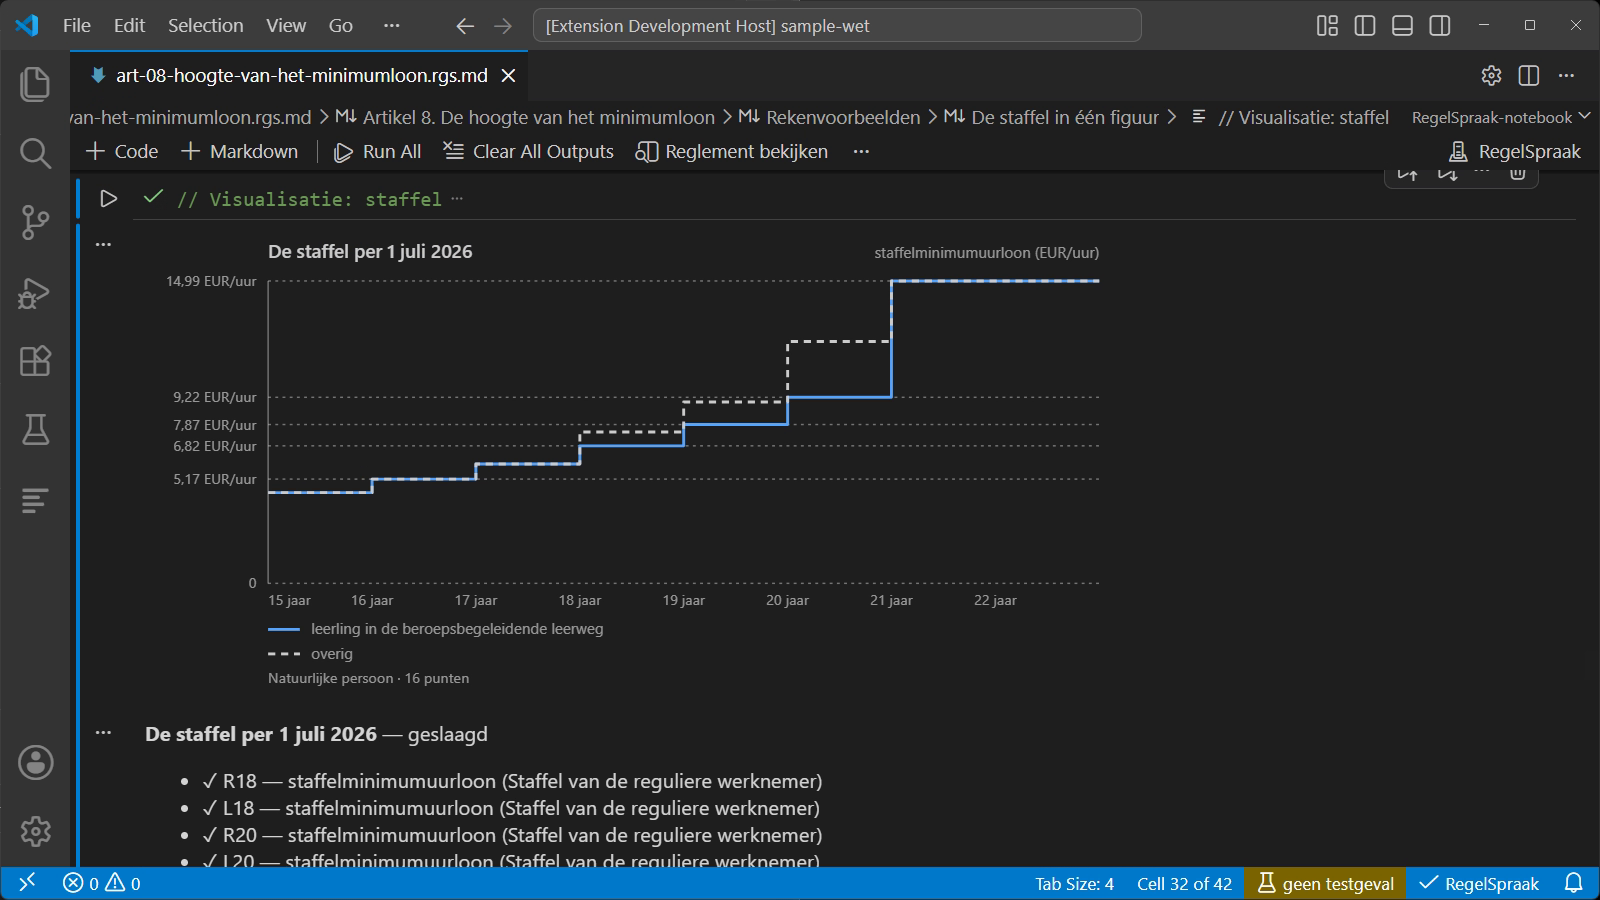
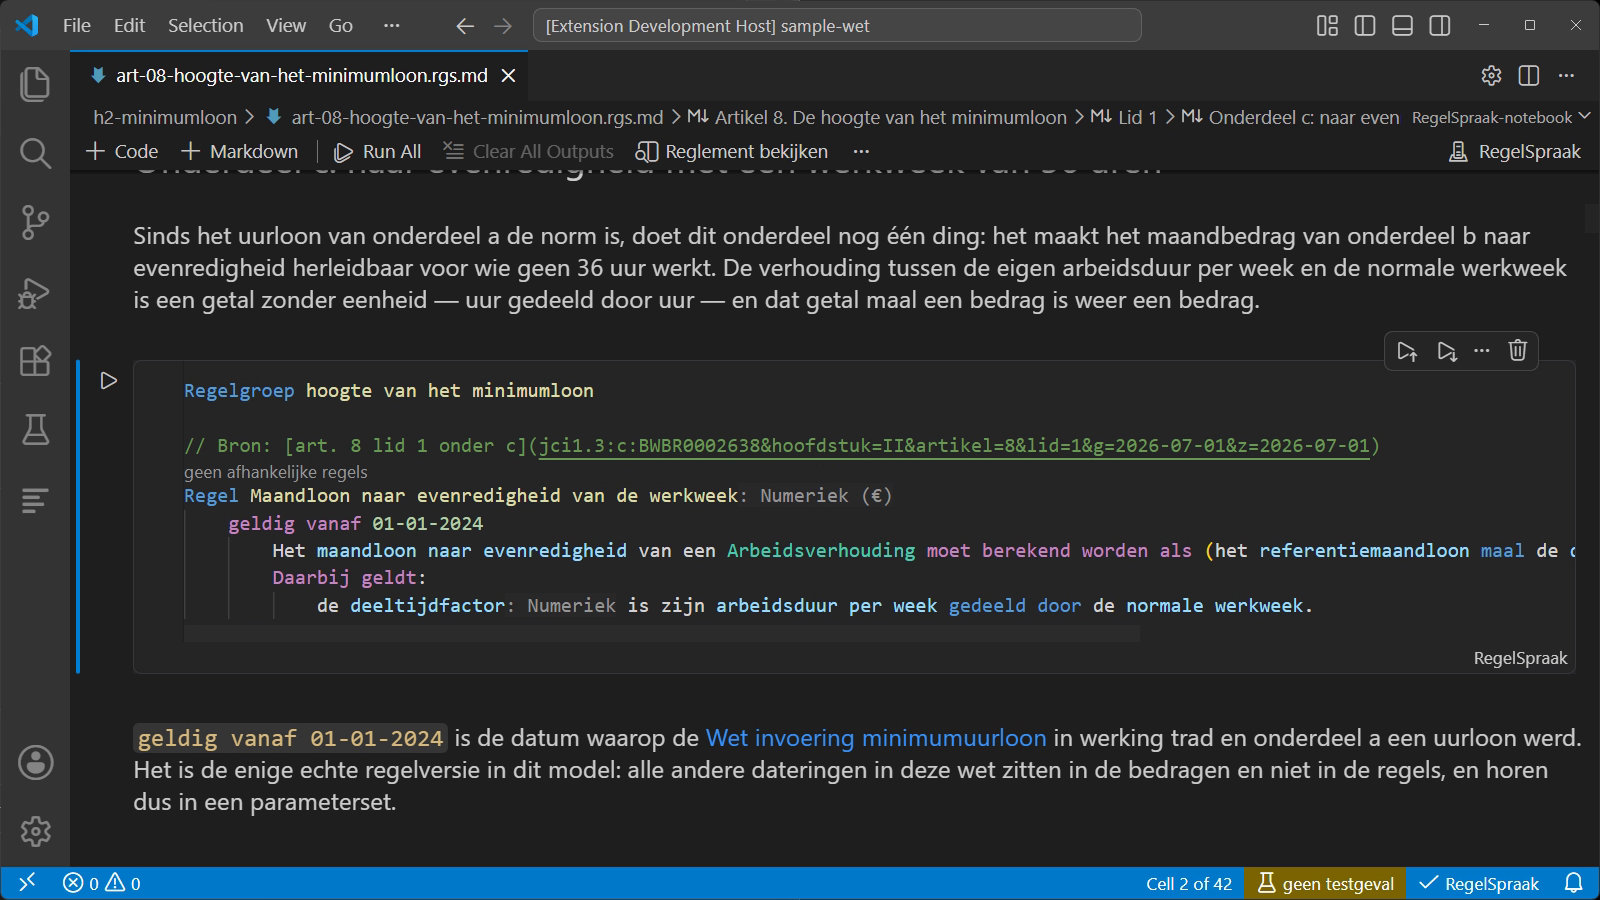
The juridisch still shows the text and the rule together
A chart on its own reads as a charting feature. What this audience needs in one
picture is a regulation and the rule that computes it in one document, so the
still is now scene 1's frame — statutory text, the rule with its Juriconnect
citation, and more text below — and the alt text describes it.

diff --git a/README.md b/README.md
@@ -24,7 +24,7 @@ with Dutch captions.
 
 ### Film 1 · *Rules as Code* — a law and its rules in one document
 
-[![A step chart of the minimum hourly wage by age, from 15 to 22, drawn out of a worked example in a RegelSpraak notebook, with the passing verdict under it](https://raw.githubusercontent.com/igochkov/vscode-regelspraak/main/images/regelspraak-juridisch.png)](PLACEHOLDER_FILM_JURIDISCH)
+[![A RegelSpraak notebook on artikel 8 of the Wet minimumloon: explanatory text above, the rule that computes the provision in the middle with its Juriconnect source citation, and more text below](https://raw.githubusercontent.com/igochkov/vscode-regelspraak/main/images/regelspraak-juridisch.png)](PLACEHOLDER_FILM_JURIDISCH)
 
 **[58 seconds.](PLACEHOLDER_FILM_JURIDISCH)** Artikel 8 of the Wet minimumloon,
 first on `wetten.overheid.nl` and then as a notebook: the wettekst and the rule
